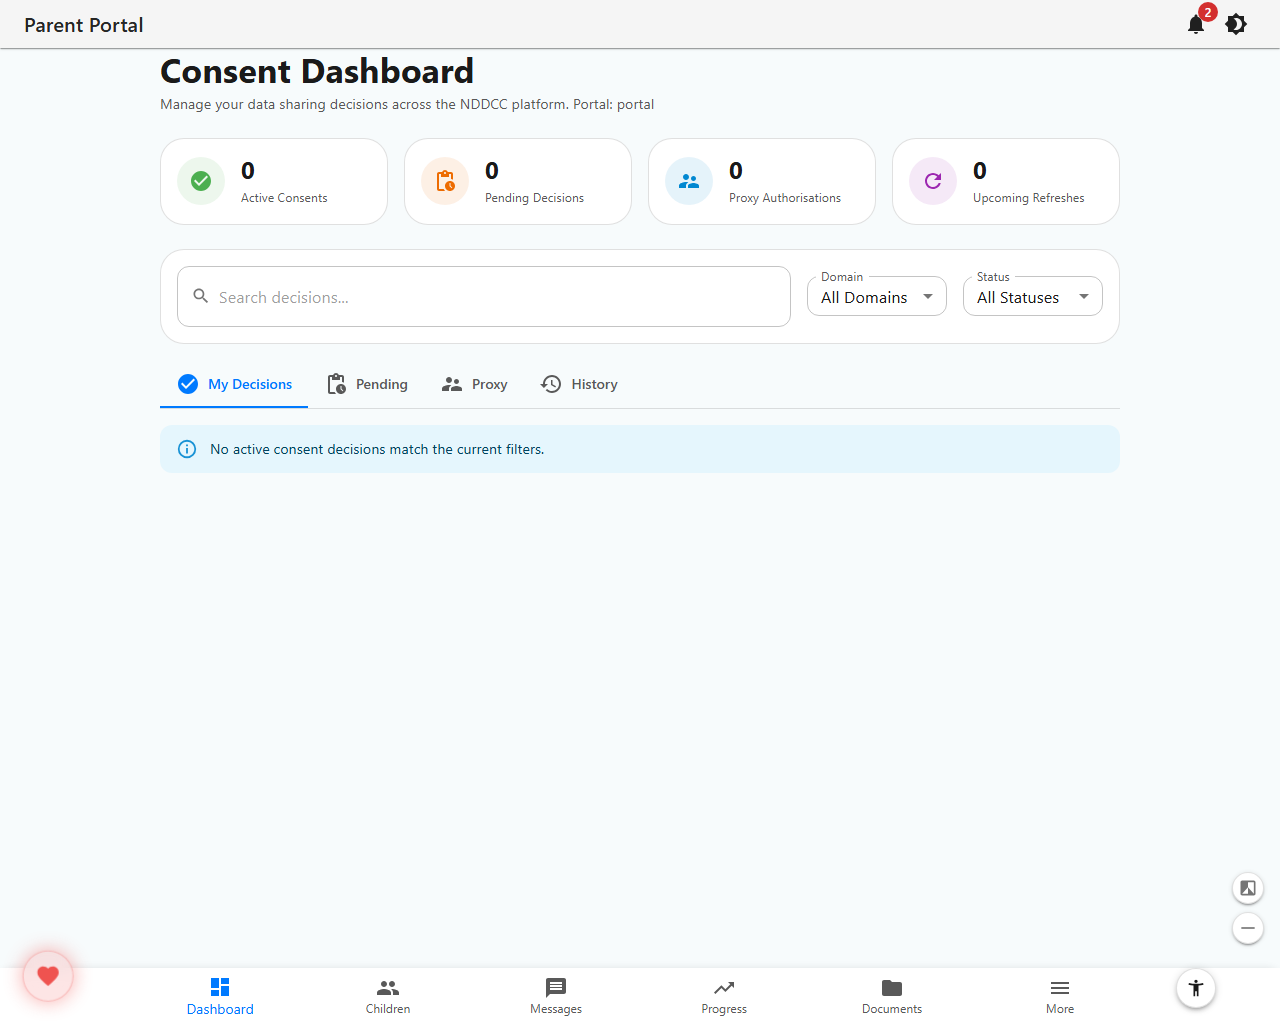
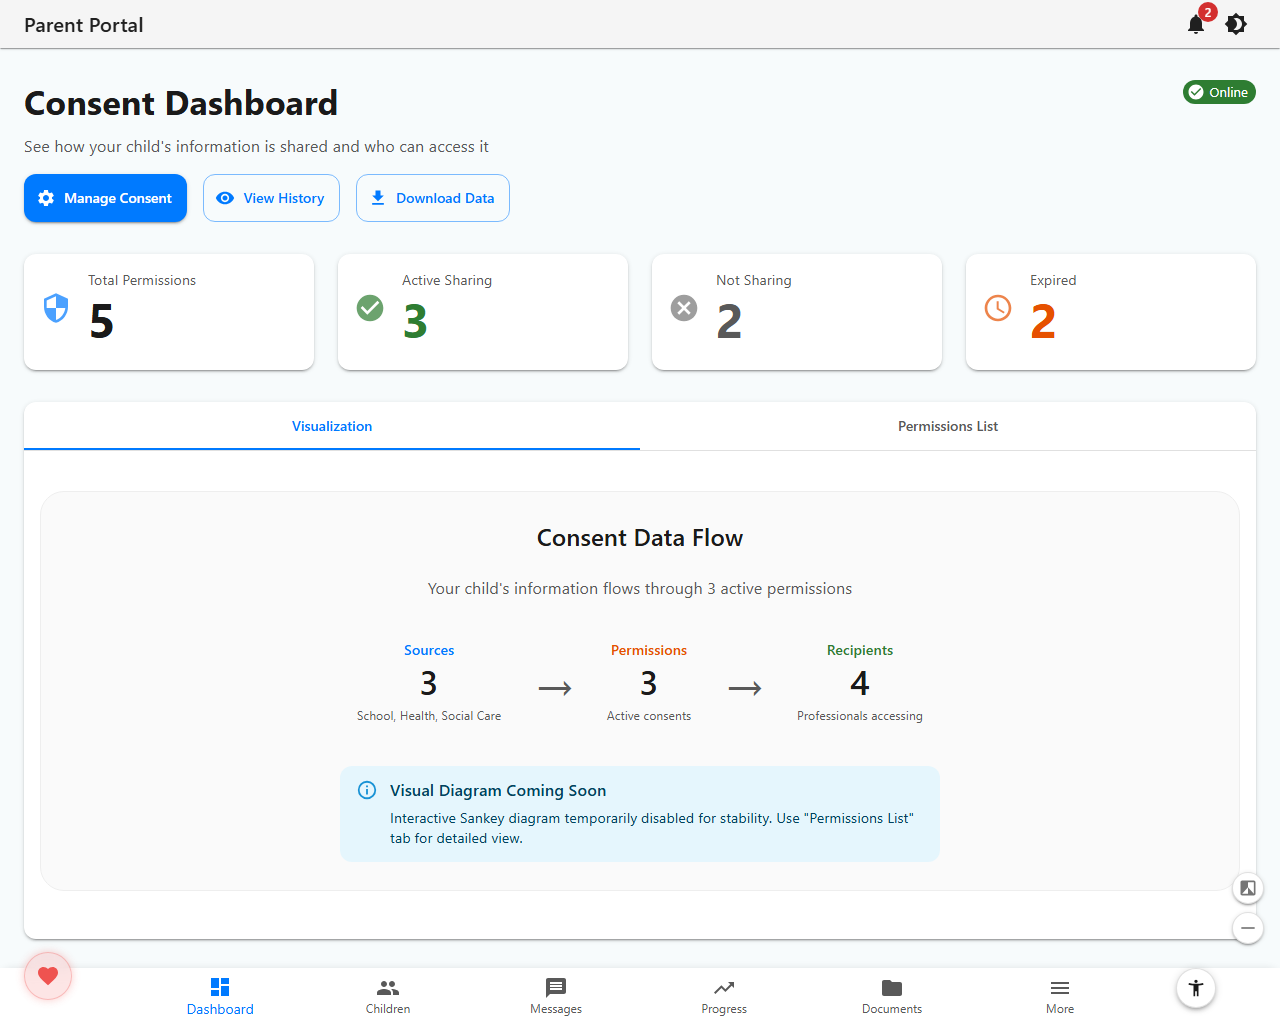
feat: consent dashboard now shows rich demo data
Parent portal consent dashboard with 5 permissions, data flow
visualisation, permissions list with Active/Inactive/Expired status,
and consent manager with pending approve/deny requests.

7 consent screenshots now showing real content across portals.

diff --git a/index.html b/index.html
@@ -1005,27 +1005,33 @@ const slides = [
       "Every consent change is audit-logged with an immutable receipt. If anyone ever asks 'who authorised this?', the answer is there."
     ],
     screens:[
-      "Consent Dashboard — child's view: My Decisions, Pending, Proxy, History tabs",
-      "Consent Dashboard — parent's view: managing consent for your child across agencies",
-      "Consent Dashboard — SENCO's view: seeing which data can be shared with which agencies",
+      "Consent Dashboard — data flow visualisation showing 3 sources, 3 permissions, 4 professionals accessing",
+      "Permissions List — every consent decision with status (Active, Inactive, Expired), source, recipient, and dates",
+      "Consent Management — pending requests from professionals with approve/deny actions",
+      "Consent Dashboard — SENCO's view: which data can be shared with which agencies",
       "Consent Dashboard — healthcare view: clinical consent status per patient",
-      "Consent Dashboard — social services view: cross-agency consent for looked-after children"
+      "Consent Dashboard — social services view: cross-agency consent for looked-after children",
+      "Consent Dashboard — MDT view: per-meeting data sharing agreements"
     ],
     benefits:[
-      "A child can see every consent decision that affects them — who has access to what, and why.",
-      "A parent manages consent from one screen — not five different logins across five different services.",
+      "See exactly how your child's data flows — 3 sources (School, Health, Social Care), 3 active permissions, 4 professionals accessing. The data flow visualisation makes the invisible visible.",
+      "Every permission listed with clear status chips — Active (green), Inactive (red), Expired (orange). Educational Records → Educational Psychologist. Behavioral Observations → SENCO. Medical Information → School Nurse. You see every decision at a glance.",
+      "Pending consent requests arrive with full context — who is asking, what data they want, why, and when it expires. Approve or deny with one click. No paperwork. No phone calls. No ambiguity.",
       "A SENCO knows exactly what data they can share before they pick up the phone or write an email.",
       "A clinician sees consent status per patient — no guessing, no over-sharing, no compliance risk.",
-      "A social worker sees cross-agency consent for looked-after children — education, health, placement data all governed consistently."
+      "A social worker sees cross-agency consent for looked-after children — education, health, placement data all governed consistently.",
+      "Per-meeting consent ensures data shared during a specific MDT meeting is governed separately. A parent can consent to sharing health data in one meeting but not another."
     ],
     connections:[
-      "The consent engine is shared across all 24 portals. A consent change made in the parent portal is immediately enforced in the healthcare portal, the school portal, the social services portal — everywhere.",
-      "Proxy authorisation links to the central user directory — when a parent is verified as a proxy, their authority scope is enforced across every portal the child uses.",
+      "The consent engine is shared across all 24 portals. A consent change made here is immediately enforced in the healthcare portal, the school portal, the social services portal — everywhere.",
+      "Permissions are domain-categorised (education, health, safeguarding) and show the exact data flow: source → permission → recipient. Nothing hidden.",
+      "Consent requests originate from professionals across the platform — a therapist requesting assessment records, a school requesting progress reports. Each request is tracked and auditable.",
       "SENCO consent view connects to the Navigator routing engine — if consent is withdrawn, document routing stops automatically.",
-      "Healthcare consent status feeds into the AI Safety Engine — if a child's data shouldn't be included in risk scoring, the consent engine enforces that at the database level.",
-      "Social services consent integrates with the safeguarding override system — NDGuard can override consent for child protection, but every override is logged and auditable."
+      "Healthcare consent status feeds into the AI Safety Engine — if a child's data shouldn't be in risk scoring, the consent engine enforces that at the database level.",
+      "Social services consent integrates with the safeguarding override system — NDGuard can override consent for child protection, but every override is logged.",
+      "MDT meeting consent is layered on general consent — the most restrictive interpretation always wins."
     ],
-    images:["Feature Consent Child.png","Feature Consent Parent.png","Feature Consent SENCO.png","Feature Consent Healthcare.png","Feature Consent Social Services.png"]
+    images:["Feature Consent Parent.png","Feature Consent Permissions List.png","Feature Consent Manager.png","Feature Consent SENCO.png","Feature Consent Healthcare.png","Feature Consent Social Services.png","Feature Consent MDT.png"]
   },
   {
     id:"burnout-radar",
